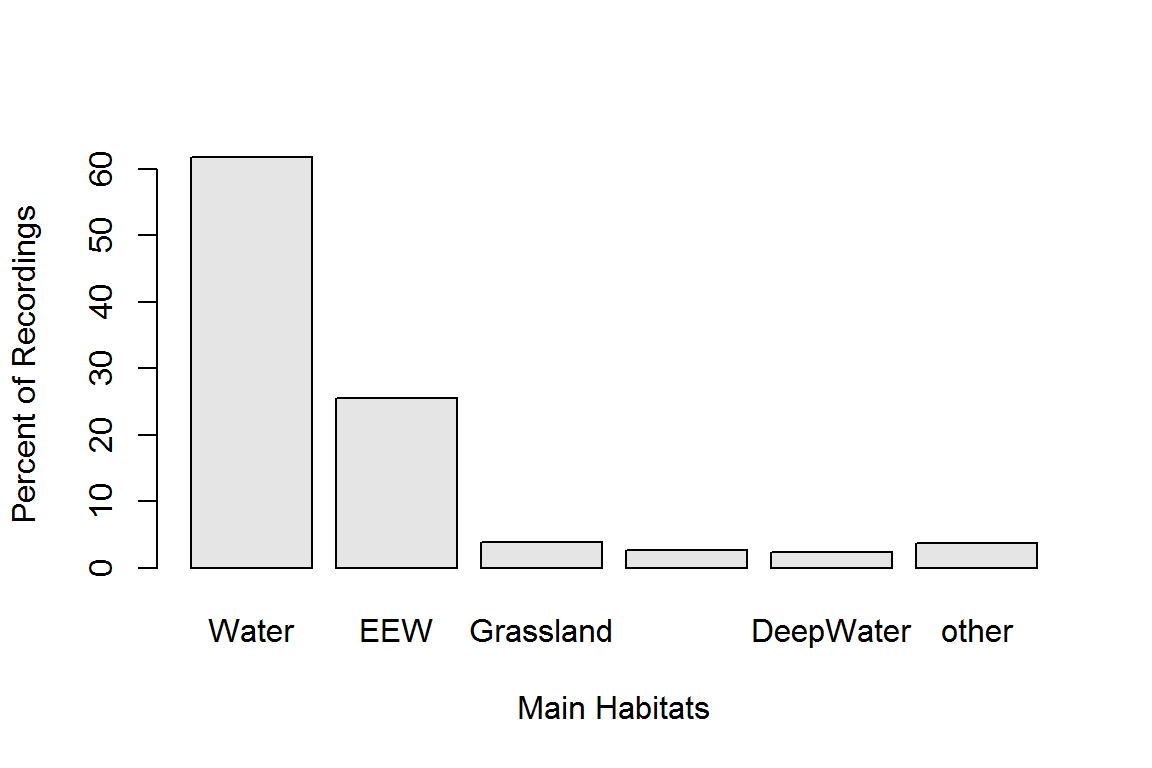
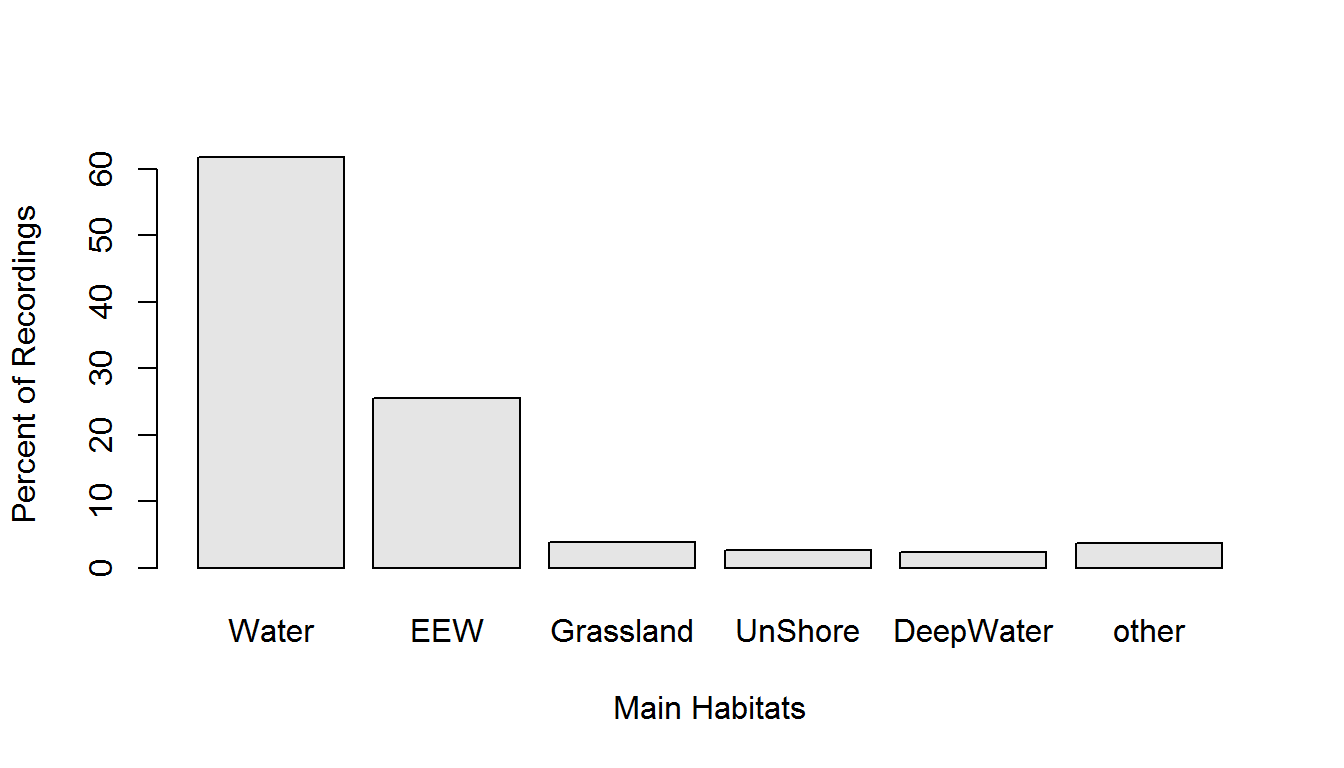
again

diff --git a/modules/UnivEDA_Categorical/CE4.html b/modules/UnivEDA_Categorical/CE4.html
@@ -11,12 +11,7 @@ css: "/css/modules.css"
 <div id="bar-chart-ii" class="section level2">
 <h2>Bar Chart II</h2>
 <p><img src="http://derekogle.com/NCMTH107/modules/zimgs/brownpelican.jpg" alt="Brown Pelican" class="img-right"> <a href="https://www.aphis.usda.gov/wildlife_damage/nwrc/publications/13pubs/king132.pdf">King et al. (2013)</a> examined the habitat use of <a href="https://en.wikipedia.org/wiki/Brown_pelican">Brown Pelicans (<em>Pelecanus occidentalis</em>)</a> in the Northern Gulf of Mexico. The bar chart below show the percentage of GPS locations recorded for the sample of Brown Pelicans in major habitats. Use this information to answer the questions further below. [Note that <code>Water</code>=“shallow near-shore waters”, <code>EEW</code>=“estuarine emergent wetland”, <code>Grassland</code>=“shoreline grasslands”, <code>UnShore</code>=“unconsolidated shore”, <code>DeepWater</code>=“deeper offshore waters”, and <code>Other</code>=“all other habitats”.]</p>
-<div class="figure">
-<img src="CE4_files/figure-html/unnamed-chunk-3-1.png" alt="Histogram of mean commute time for U.S. states." width="576" />
-<p class="caption">
-Histogram of mean commute time for U.S. states.
-</p>
-</div>
+<p><img src="CE4_files/figure-html/unnamed-chunk-3-1.png" title="" alt="" width="672" /></p>
 <ol>
 <li>What is an individual in this example?</li>
 <li>What type of variable is recorded?</li>
